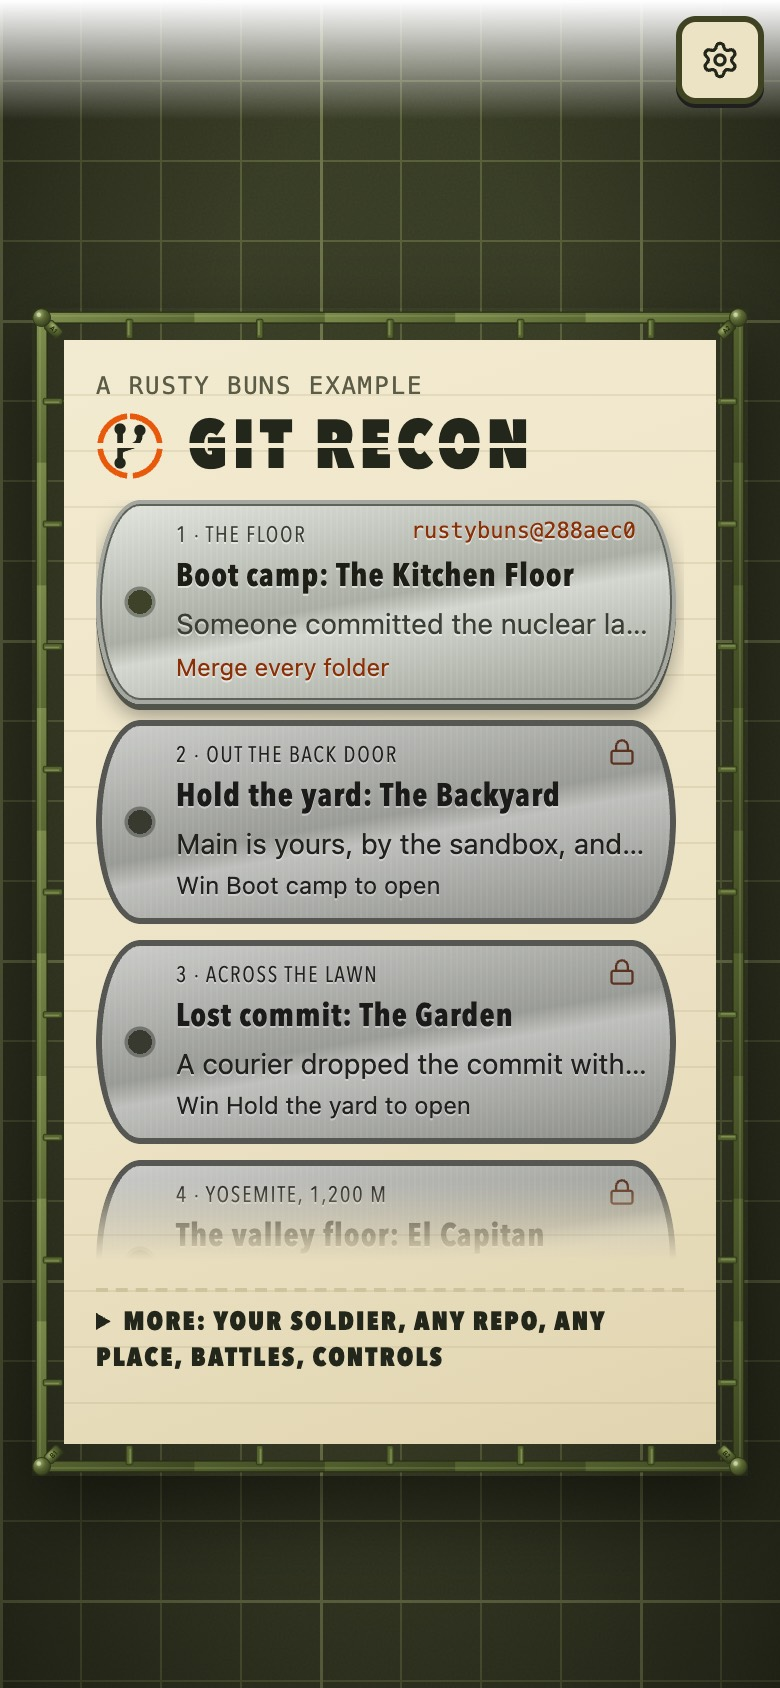
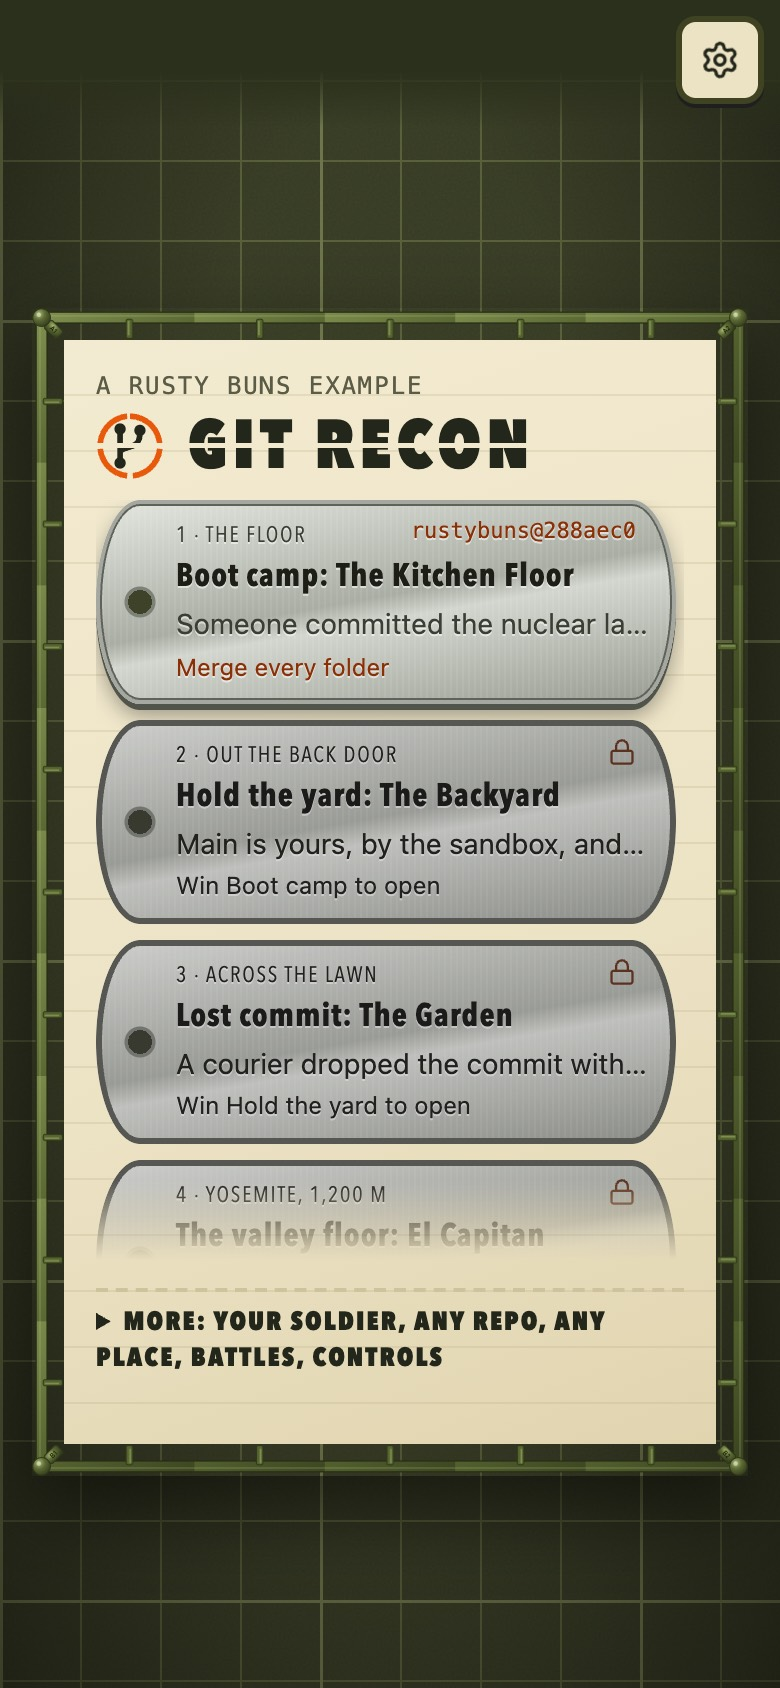
Git Recon: on phones the page fades into the table's olive under the Controls cog, not the white play view (menus round 2)
The judge caught the mask version washing out the first dog tag.

Part of #3554

Changed region(s): [[0.0, 0.0, 1.0, 0.0616]]

diff --git a/apps/git-recon/src/ui/styles.css b/apps/git-recon/src/ui/styles.css
@@ -391,6 +391,7 @@ html .ui-house {
 .results .tally:empty { display: none; }
 
 @media (max-width: 560px) {
-  /* The page scrolls under the Controls cog: it fades out beneath it instead of running under it. */
-  .menu { -webkit-mask: linear-gradient(#0000 0, #000 60px); mask: linear-gradient(#0000 0, #000 60px); }
+  /* The page scrolls under the Controls cog: a band of the table's olive fades it out beneath the cog. (A mask on
+     the menu would show the white play view behind it instead.) */
+  .menu::before { content: ""; position: fixed; inset: 0 0 auto 0; height: 64px; z-index: 2; pointer-events: none; background: linear-gradient(#2b301c 55%, #2b301c00); }
 }
